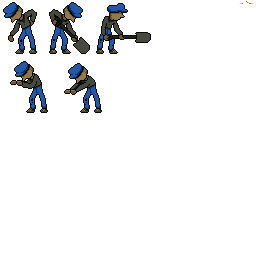
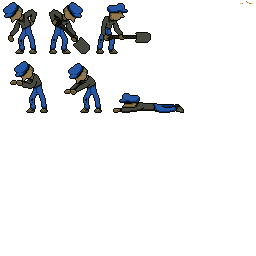
- tripping over untied shoelaces

Changed region(s): [[0.4375, 0.3438, 0.7188, 0.4688]]

diff --git a/Assets/Scripts/GameSystems/PlayerStateManager.cs b/Assets/Scripts/GameSystems/PlayerStateManager.cs
@@ -10,6 +10,7 @@ public enum PlayerState
     ShovelPlace,
     PumpUp,
     PumpDown,
+    Fallen,
     NUM_STATES,
 }
 
@@ -23,9 +24,25 @@ public class PlayerStateManager : Singleton<PlayerStateManager>
     [SerializeField]
     private List<PlayerStateObject> playerObjects;
 
-    public void SwitchToState(PlayerState state, float shakeMagnitude)
+    [SerializeField]
+    private float tripChance = 0.25f;
+
+    private bool switchingState;
+
+    private void SwitchToState(PlayerState state, float shakeMagnitude)
     {
-        StartCoroutine(SwitchStateSequence(state, shakeMagnitude));
+        if (!switchingState)
+        {
+            if (state == PlayerState.Idle && ShoesUntied && Random.value < tripChance)
+            {
+                GetPlayerObject(PlayerState.Fallen).transform.localScale = new Vector2(shakeMagnitude > 0f ? -1f : 1f, 1f);
+                StartCoroutine(SwitchStateSequence(PlayerState.Fallen, 4f));
+            }
+            else
+            {
+                StartCoroutine(SwitchStateSequence(state, shakeMagnitude));
+            }
+        }
     }
 
     private void Update()
@@ -89,9 +106,11 @@ public class PlayerStateManager : Singleton<PlayerStateManager>
 
     private IEnumerator SwitchStateSequence(PlayerState state, float shakeMagnitude)
     {
+        switchingState = true;
+
         var currentObject = GetPlayerObject(CurrentState);
         Tween.LocalPosition(currentObject.transform, currentObject.transform.localPosition + Vector3.left * 0.04f * shakeMagnitude, 0.03f, 0f);
-        yield return new WaitForSeconds(0.03f);
+        yield return new WaitForSeconds(state == PlayerState.Fallen ? 0.2f : 0.03f);
         currentObject.gameObject.SetActive(false);
 
         CurrentState = state;
@@ -102,9 +121,11 @@ public class PlayerStateManager : Singleton<PlayerStateManager>
         PlaySoundForState(state);
 
         Tween.LocalPosition(currentObject.transform, currentObject.transform.localPosition + Vector3.right * 0.03f * shakeMagnitude, 0.025f, 0f, Tween.EaseOut);
-        yield return new WaitForSeconds(0.025f);
+        yield return new WaitForSeconds(state == PlayerState.Fallen ? 0.1f : 0.025f);
         Tween.LocalPosition(currentObject.transform, currentObject.transform.localPosition + Vector3.left * 0.03f * shakeMagnitude, 0.025f, 0f, Tween.EaseIn);
-        yield return new WaitForSeconds(0.025f);
+        yield return new WaitForSeconds(state == PlayerState.Fallen ? 0.1f : 0.025f);
+
+        switchingState = false;
     }
 
     private void PlaySoundForState(PlayerState state)
@@ -122,6 +143,6 @@ public class PlayerStateManager : Singleton<PlayerStateManager>
 
     private PlayerStateObject GetPlayerObject(PlayerState state)
     {
-        return playerObjects[Mathf.Clamp((int)CurrentState, 0, (int)PlayerState.NUM_STATES - 1)];
+        return playerObjects[Mathf.Clamp((int)state, 0, (int)PlayerState.NUM_STATES - 1)];
     }
 }
